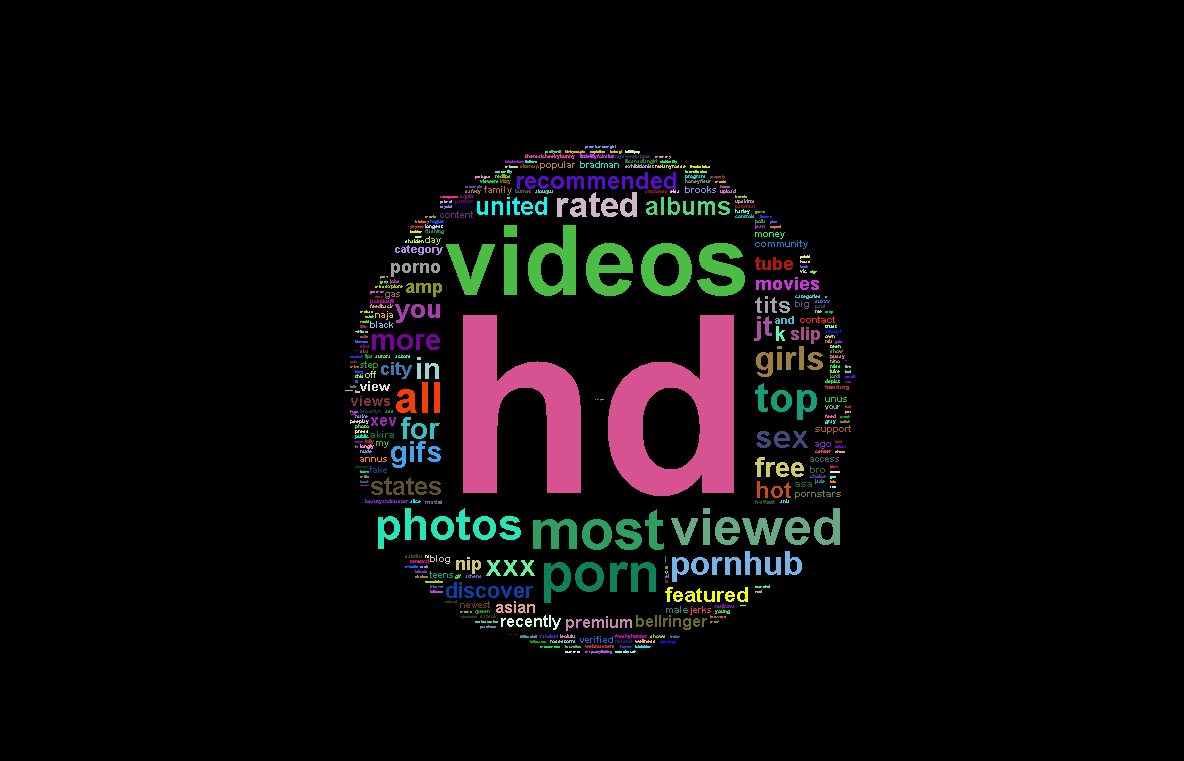
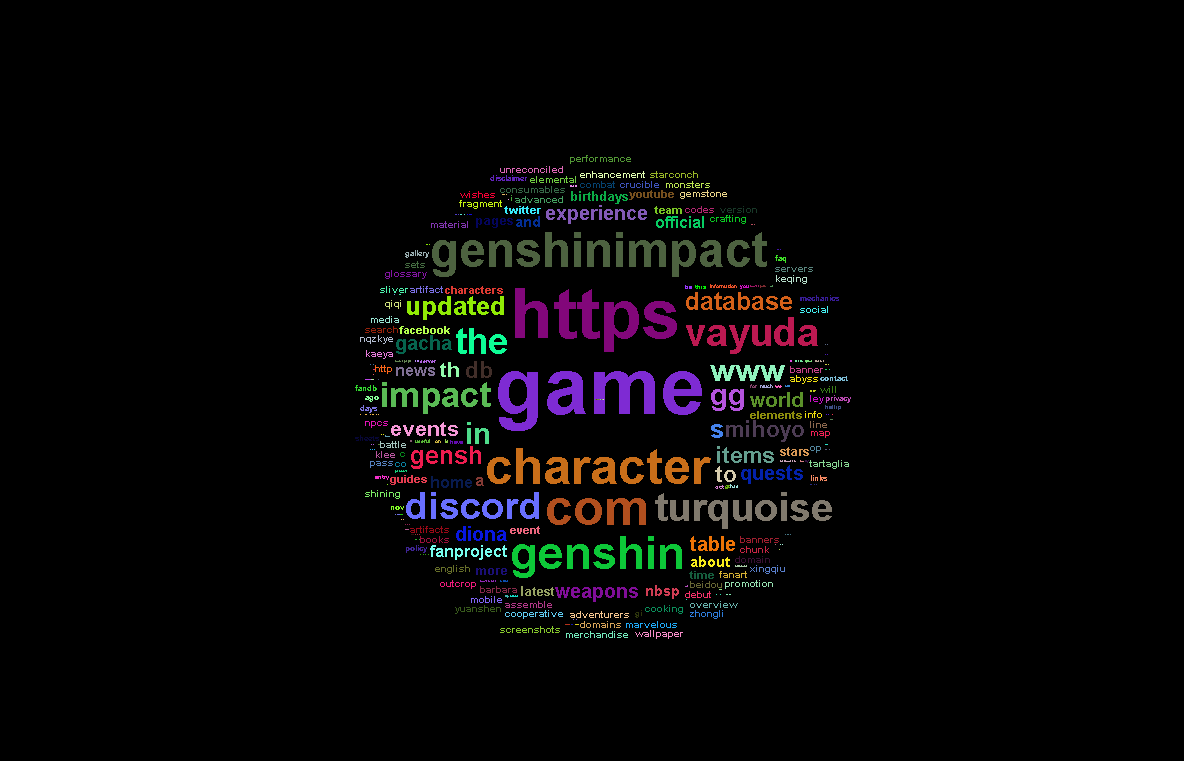
scale

Changed region(s): [[0.2812, 0.1813, 0.7188, 0.8765]]

diff --git a/Tag-Cloud-Project/src/Display.java b/Tag-Cloud-Project/src/Display.java
@@ -16,14 +16,21 @@ public class Display extends Canvas  {
 		// Rank words by rank
 		words = new ArrayList<Word>();
 		visited = new boolean[5000][5000];
+		double avg = 0, count = 0;
 		for(Map.Entry<String,Integer> k : w.entrySet()) {
+			if(k.getValue()>2) {
+				count++;
+				avg+=k.getValue();
+			}
 			words.add(new Word(k.getKey(),k.getValue()));
 		}
+		avg/=count;
 		System.out.println(words);
 		System.out.println(words.size());
 		setBackground(background);
 		
-		SCALE = max/250.0;
+		SCALE = avg>=5.0?(avg/(avg*1.667)):max/250.0;
+		System.out.println(avg);
 		System.out.println(SCALE);
 	}
 	

diff --git a/Tag-Cloud-Project/src/Main.java b/Tag-Cloud-Project/src/Main.java
@@ -54,7 +54,7 @@ public class Main extends JFrame {
 		/*Scanner kb = new Scanner(System.in);
 		System.out.println("What website would you like to make a tag cloud out of?");
 		String url = kb.nextLine();*/
-		String url = "https://www.pornhub.com/";
+		String url = "https://www.gensh.in/";
 		Scraper scr = new Scraper(url);
 		String s = scr.getWebsite();
 		System.out.println(s);
